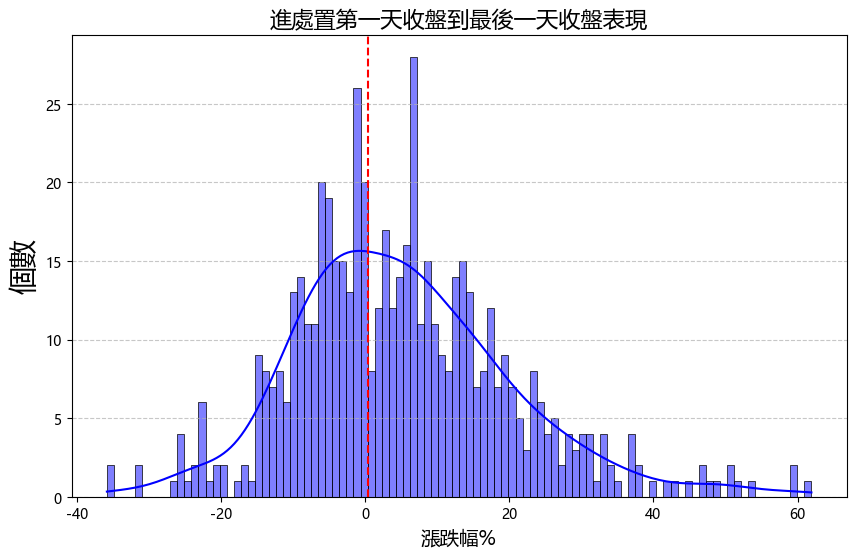
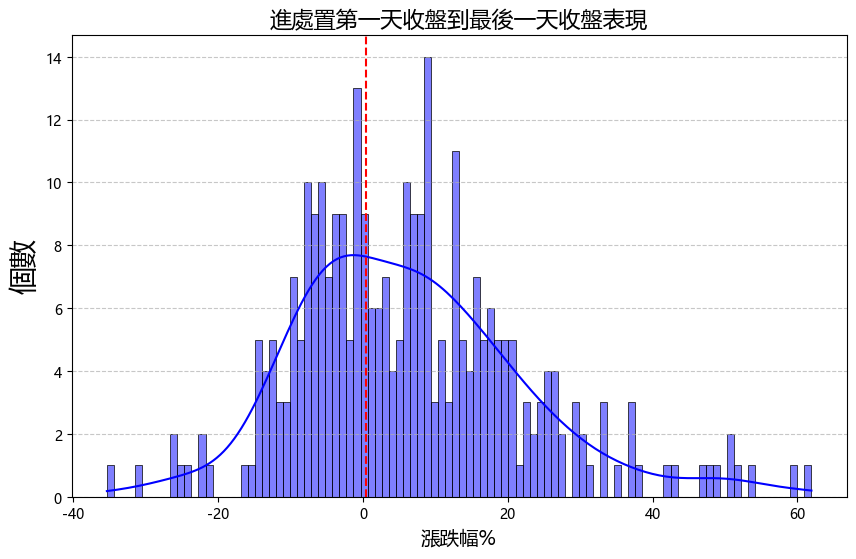
更新處置股回測

diff --git a/blog/post-7/index.html b/blog/post-7/index.html
@@ -184,15 +184,32 @@
 </ul>
 <p>若是進處置第一天跌幅大於10%，觀察後續表現也同樣不好，最後平均會虧-2.71%</p>
 <p><img src="../../images/post/post-7-4.png" alt="image"></p>
-<h5 id="五-重新統計資料">(五) 重新統計資料</h5>
+<ul>
+<li>重新統計資料</li>
+</ul>
 <p><strong>買進 : 進處置第一天收盤即買進</strong>
 <strong>賣出 : 出處置前一天收盤賣出</strong></p>
+<ul>
+<li>進處置前一天的20日RS需大於20</li>
+<li>進處置前一天需要收紅</li>
+<li>進處置第一天的跌幅需小於10%</li>
+</ul>
 <!-- raw HTML omitted -->
 <!-- raw HTML omitted -->
-<p>平均賠錢每檔賠 <strong>-8.25%</strong></p>
-<p>平均賺錢每檔賺 <strong>14.78%</strong></p>
-<p>勝率 <strong>58.55%</strong>
+<p>平均賠錢每檔賠 <strong>-7.91%</strong></p>
+<p>平均賺錢每檔賺 <strong>15.91%</strong></p>
+<p>勝率 <strong>60.33%</strong>
 <img src="../../images/post/post-7-5.png" alt="image"></p>
+<ul>
+<li>MAE累計圖</li>
+</ul>
+<p>透過MAE累計圖可以發現其實如果MAE-15%以上，之後基本上就不會賺錢了，可以即早停損增加資金使用效率</p>
+<p><img src="../../images/post/post-7-6.png" alt="image"></p>
+<p>平均賠錢每檔賠 <strong>-8.18%</strong></p>
+<p>平均賺錢每檔賺 <strong>15.93%</strong></p>
+<p>勝率 <strong>60%</strong></p>
+<p>基本上停損後勝率只有略為下降，不過若是全部都要買進的還是太多檔</p>
+<p><img src="../../images/post/post-7-7.png" alt="image"></p>
 <h5 id="六-現實考量">(六) 現實考量</h5>
 <!-- raw HTML omitted -->
 <!-- raw HTML omitted -->
